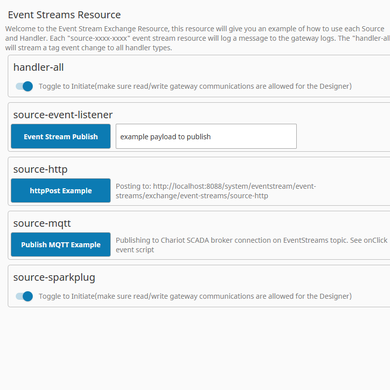
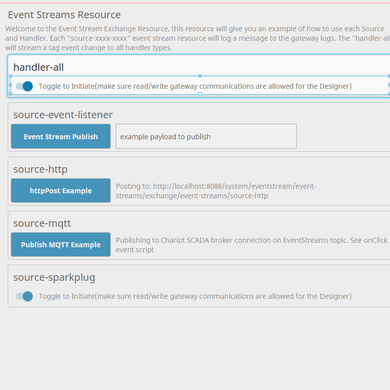
A few small updates

diff --git a/readme.md b/readme.md
@@ -3,8 +3,9 @@
 This repository contains a containerized development environment featuring examples of the Event Streams module.
 
 TLDR:
-1. git clone <your-repo-url>
-2. docker compose up -d
+1. git clone https://github.com/ia-rtyson/events-streams-examples.git event-streams-test
+2. update .env.example >> .env and change varable there as necessary
+3. docker compose up -d
 
 All database tables, kafka topics, etc. should prepopulate upon startup.
 
